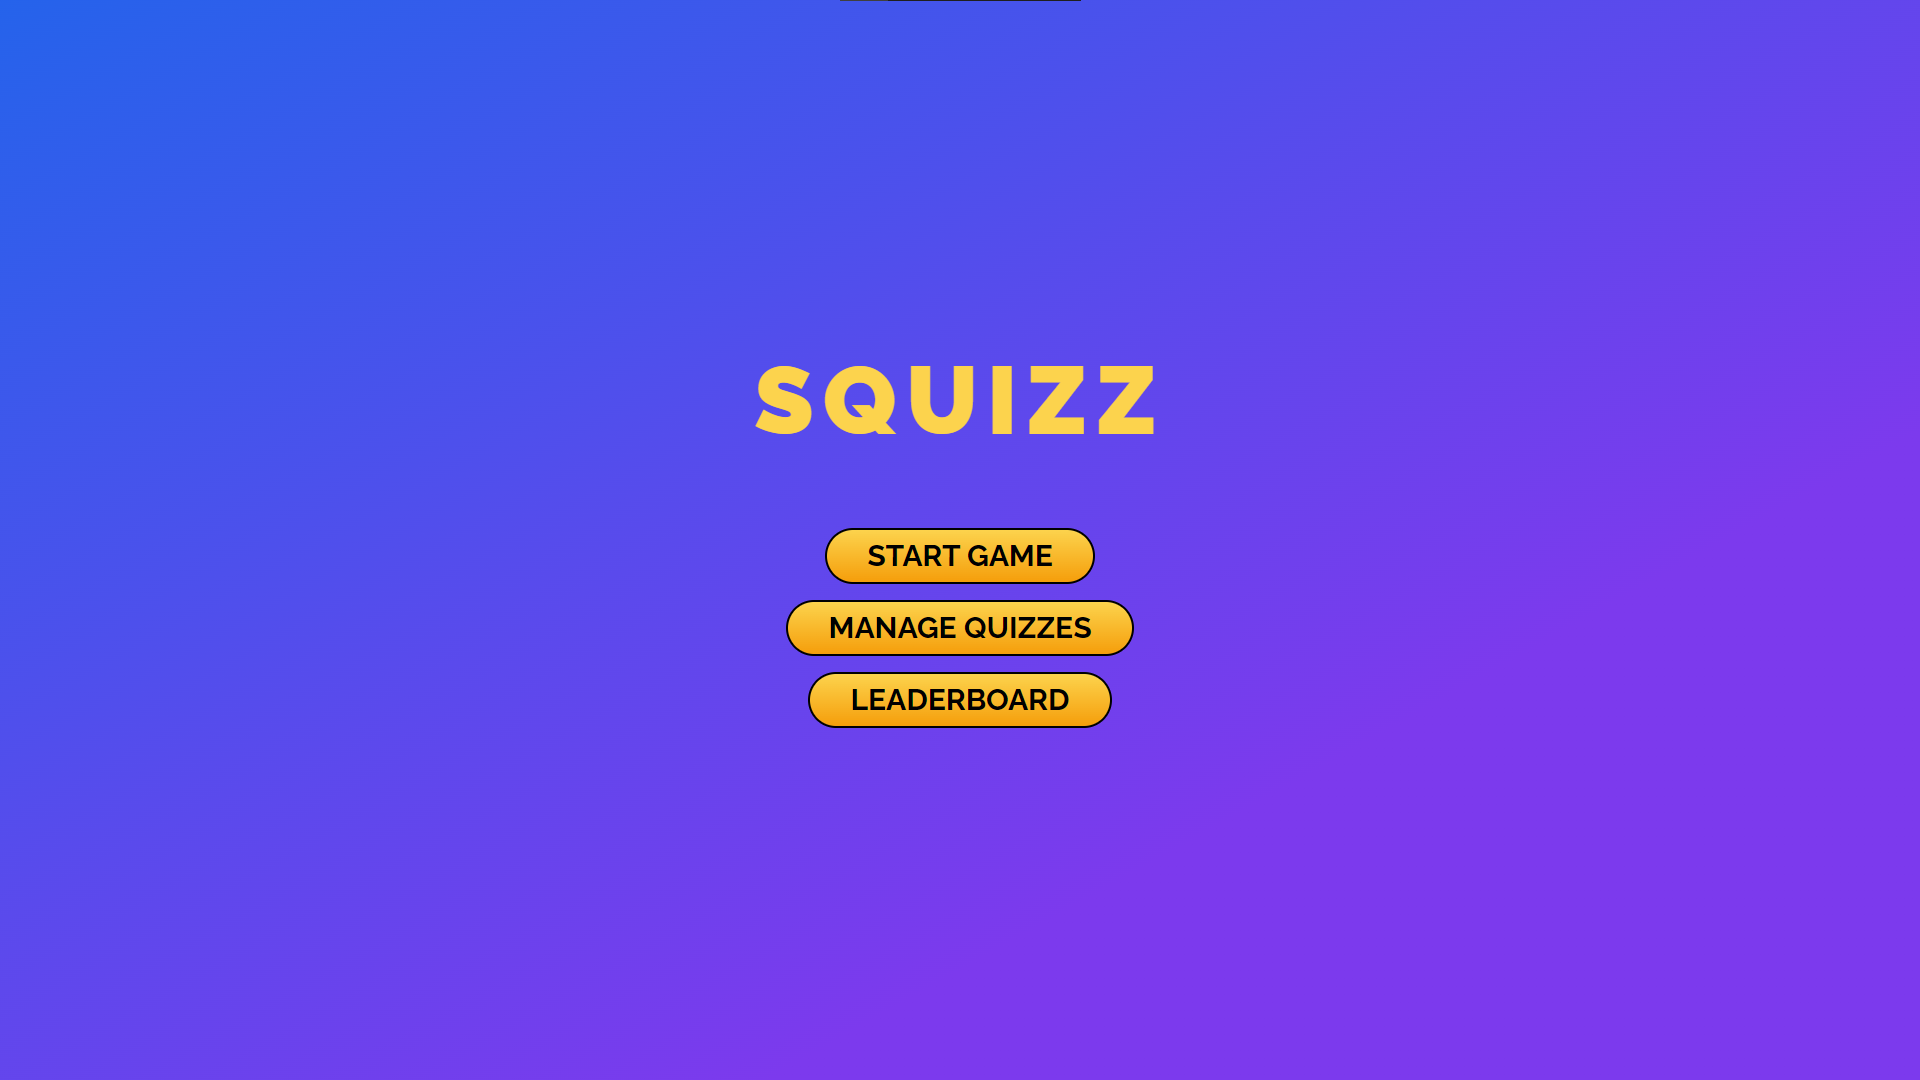
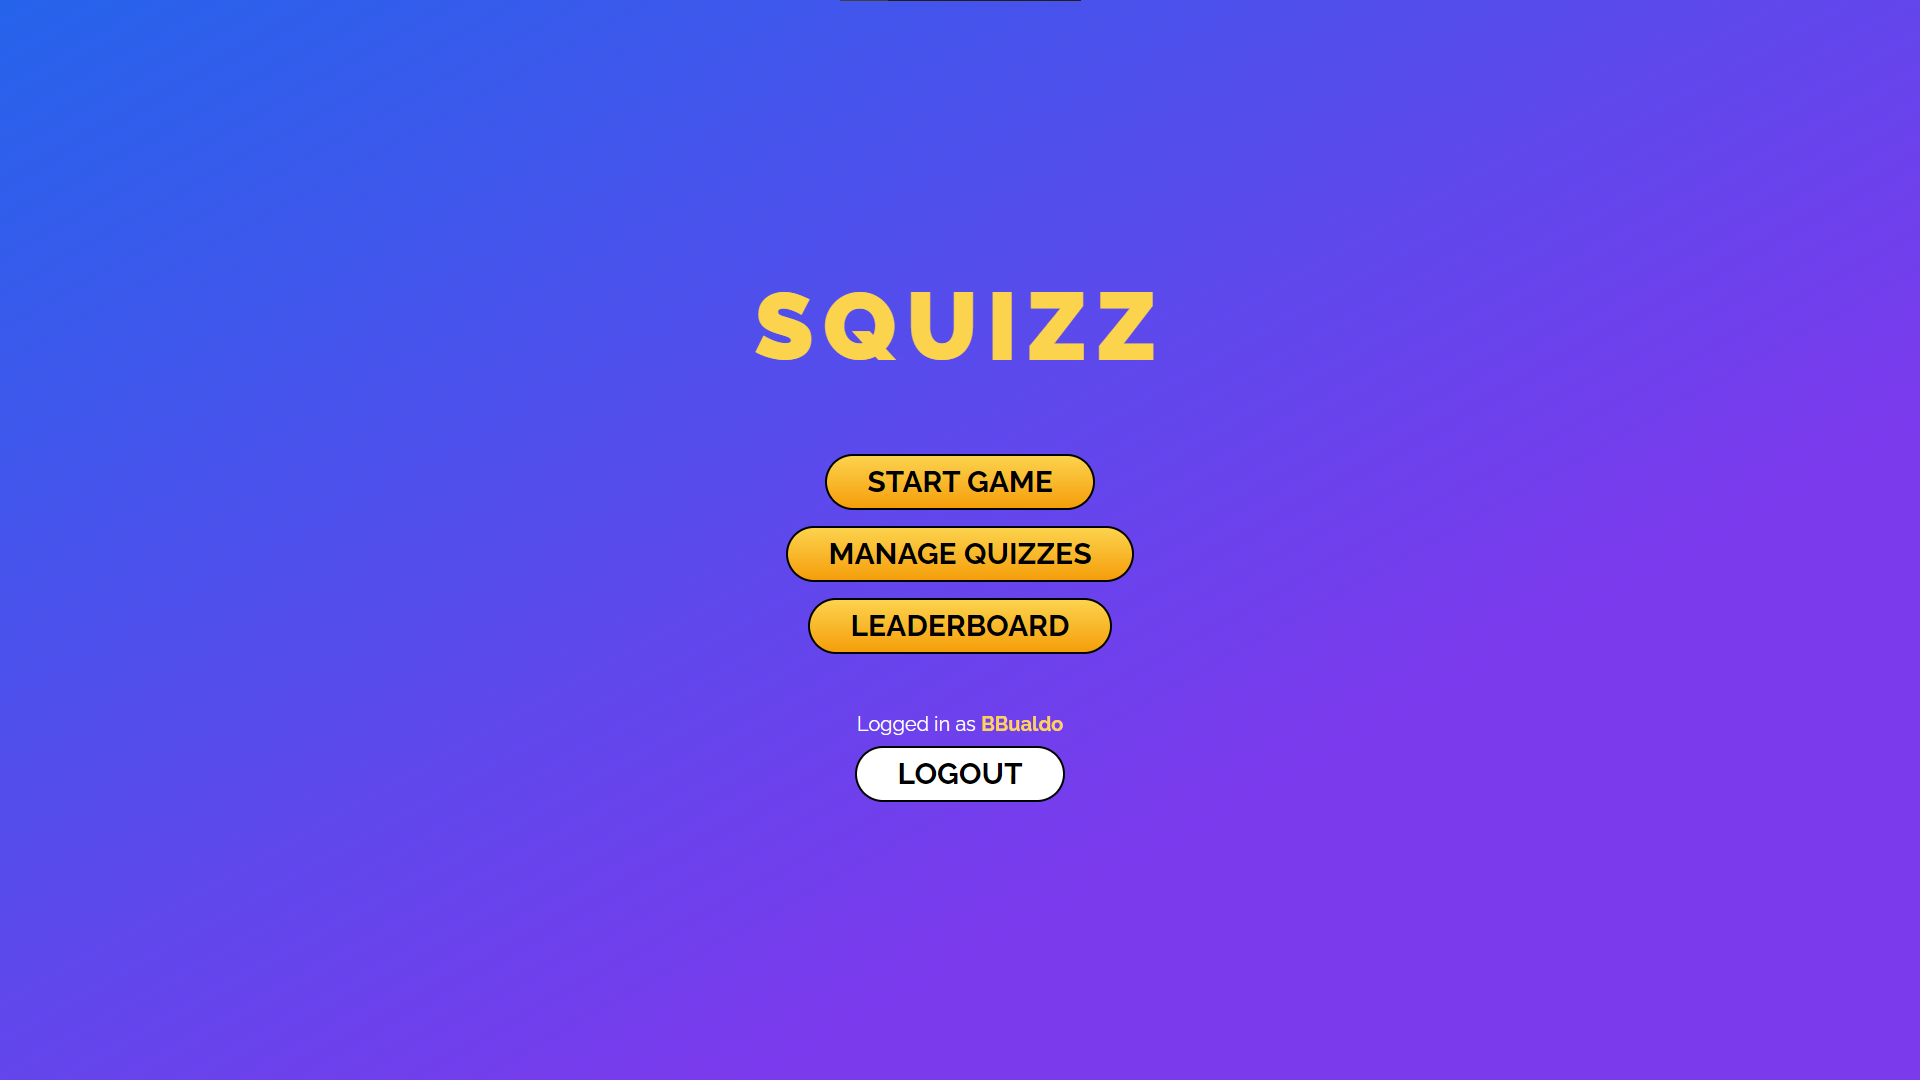
UPDATE Readme

Changed region(s): [[0.375, 0.2444, 0.625, 0.7639]]

diff --git a/README.md b/README.md
@@ -8,12 +8,14 @@ Application where user can create his own Quizzes play them and track scores in 
 <img src="./screenshots/main-menu-desktop.png" width="500" />
 <img src="./screenshots/create-quiz-desktop.png" width="500" />
 <img src="./screenshots/leaderboard-desktop.png" width="500" />
+<img src="./screenshots/register-desktop.png" width="500"/>
 </div>
 <div>
 <h3>Mobile</h3>
 <img src="./screenshots/main-menu-mobile.png" width="200" />
 <img src="./screenshots/create-quiz-mobile.png" width="200" />
 <img src="./screenshots/leaderboard-mobile.png" width="200" />
+<img src="./screenshots/register-mobile.png" width="200" />
 </div>
 
 
@@ -27,6 +29,8 @@ Here're some of the project's best features:
 *   Saving records in leaderboards
 *   Ability to delete Quiz or Game(s)
 *   User-Friendly error and loading handling
+*   Authentication and Authorization
+*   Authenticated users can delete and create Quizzes/Games
 
 ## 🛠 Installation Steps:
 
@@ -76,6 +80,8 @@ npm install
 *   PostgreSQL
 *   Angular Material
 *   TailwindCSS
+*   ASP.NET Identity
+*   Logger
 
 ## 🧠 What I've learned
 
@@ -85,3 +91,6 @@ npm install
 * Mapping through related tables using Entity Framework
 * Server-Side Pagination
 * Handling loading state and potential errors
+* Handling Authentication and Authorization using ASP.NET Core Identity
+* Logging errors in Database using ILogger
+* Storing token in cookies on Authentication
